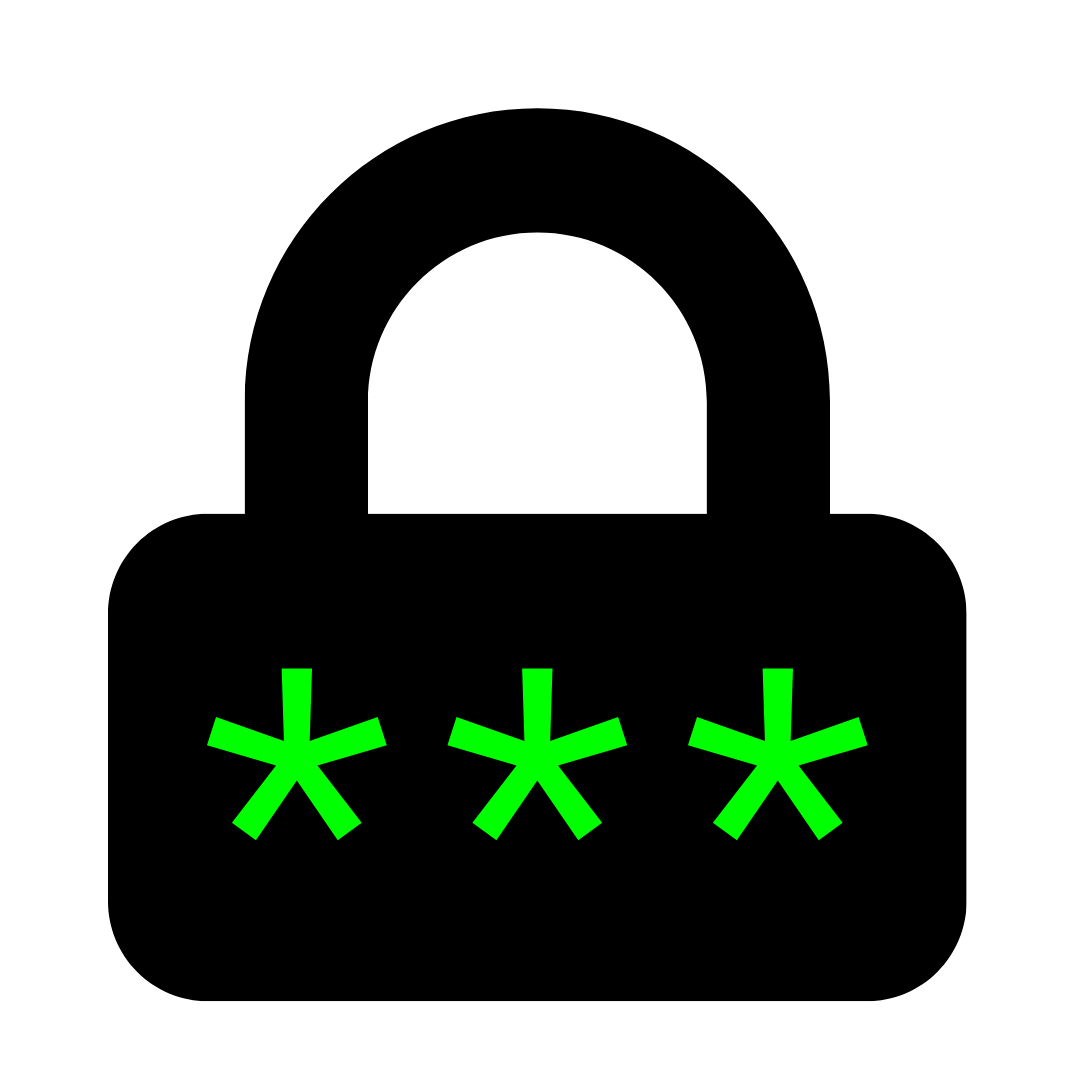
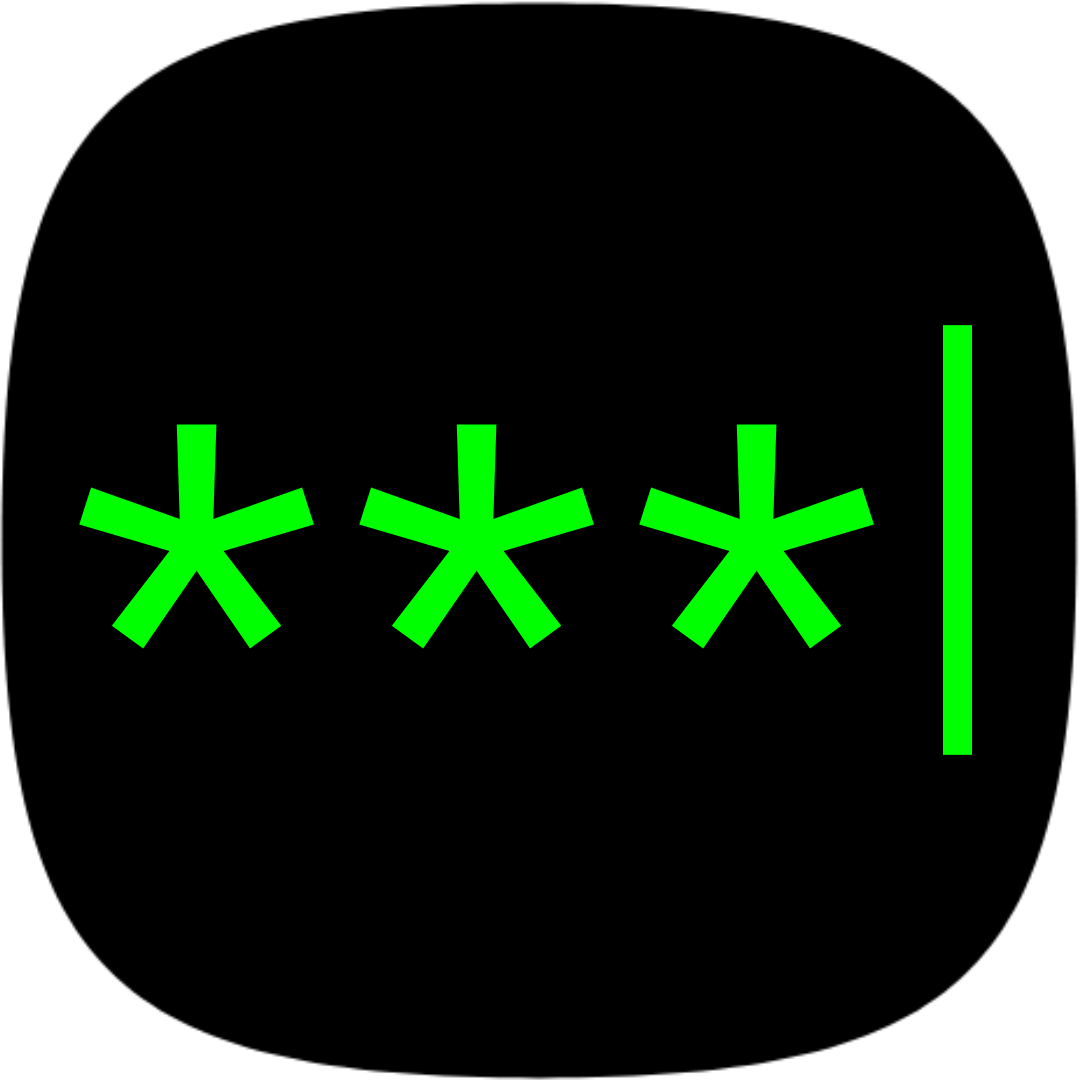
24 Jul 17:38
- changed the favicon
- added tooltips
- generate password when user clicks a checkbox
- fixed conflicting cursors in the slider

diff --git a/index.html b/index.html
@@ -25,7 +25,7 @@
 
         <section class="gen">
             <!-- displayed password -->
-            <p id="password">CLICK<span class="thin"> </span>TO<span class="thin"> </span>COPY</p>
+            <p id="password" title="click to copy">CLICK<span class="thin"> </span>TO<span class="thin"> </span>COPY</p>
 
             <!-- user inputs (slider and button) -->
             <div class="row-div input-div">
@@ -33,8 +33,8 @@
                 <span id="length">000</span>
                 <input
                 type="range" min="1" max="100" value="16"
-                class="slider" id="len-slider">
-                <button id="gen-button"></button>
+                class="slider" id="len-slider" title="adjust length">
+                <button id="gen-button" title="randomize"></button>
             </div>
         </section>
 

diff --git a/script.js b/script.js
@@ -34,6 +34,7 @@ gen_button.addEventListener('click', generate_password);
 slider_in.addEventListener('input', update_length);
 pass_out.addEventListener('click', copy_password);
 window.onload = () => { passwordLength = Number(slider_in.value); slider_out.textContent = String(slider_in.value).padStart(3,0); } // update length on load
+checkboxes.forEach((checkbox) => {checkbox.addEventListener('click', generate_password)})
 
 function update_length() {
     passwordLength = Number(slider_in.value);

diff --git a/styles.css b/styles.css
@@ -125,7 +125,6 @@ input[type="range"] {
     /* adding my own stuff */
     width: 250px;
     height: 16px;
-    cursor: pointer;
     background: none;
     border: solid lime;
     
